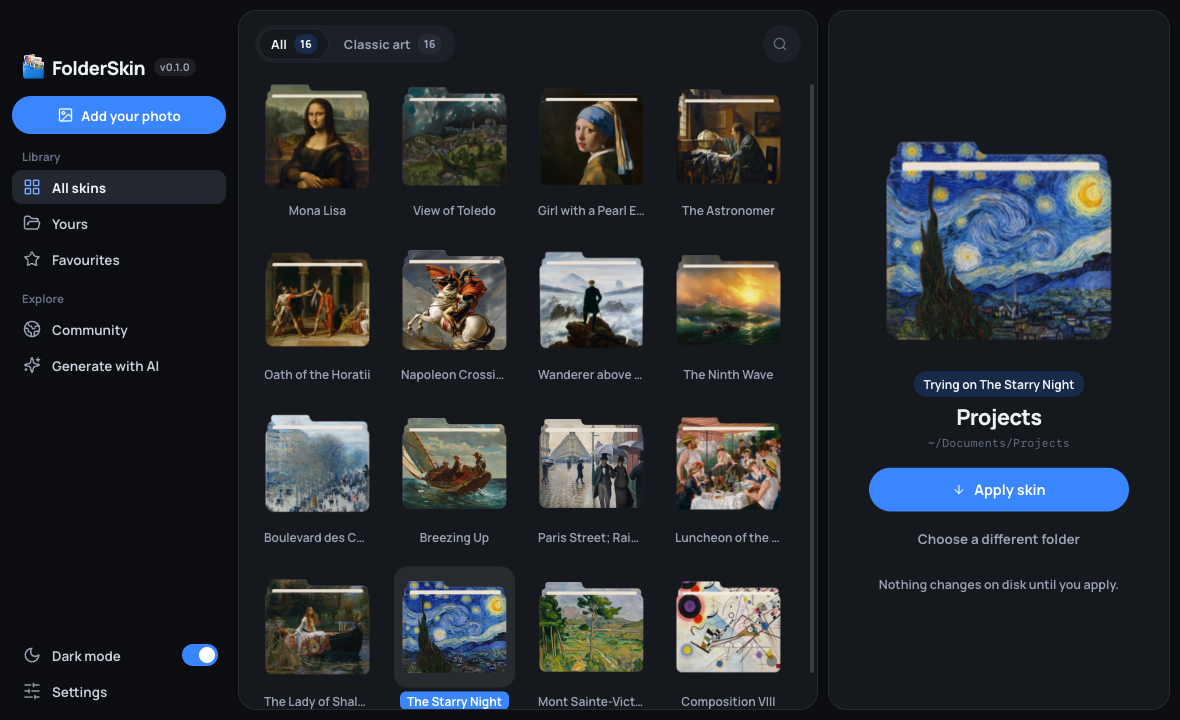
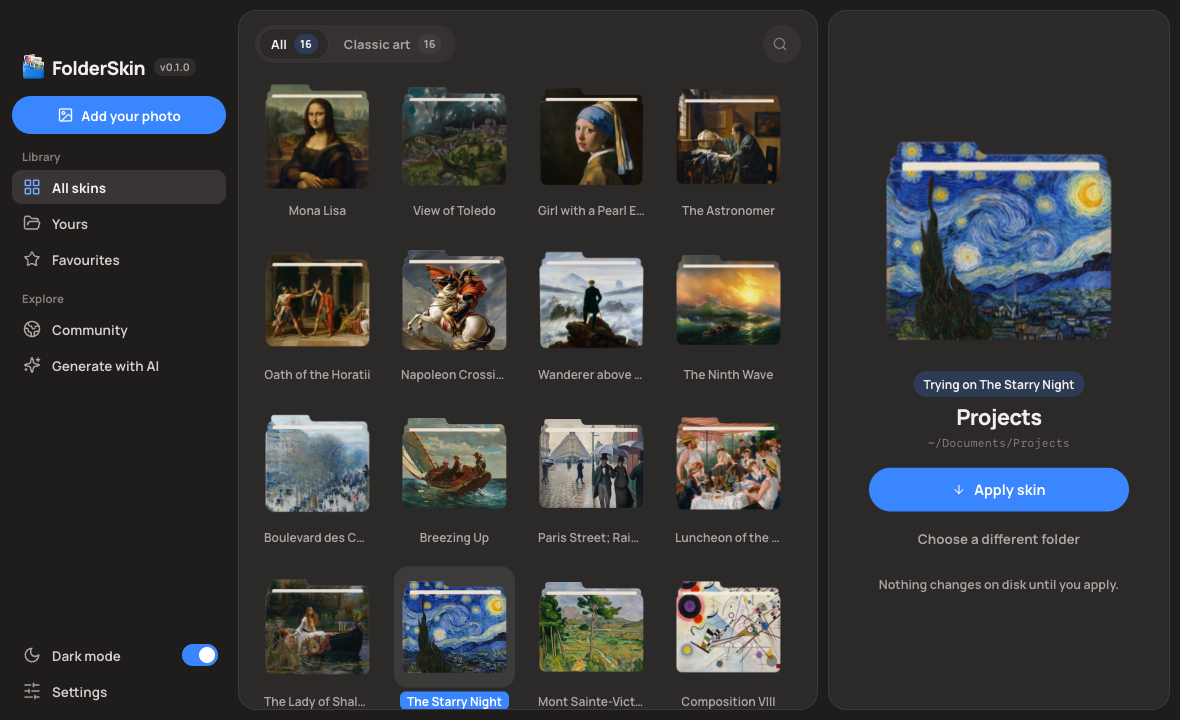
Make dark mode warm grey around #2c2929
The islands are #2c2929, the canvas a step darker and the wells a step lighter; the text, lines
and tints are warmed to match, with every text colour still at least AA on what it sits on.
The Settings button's sliders icon starts from its resting variant, so its first hover no longer
writes undefined into the SVG. The README screenshots show the new dark mode.

diff --git a/src/styles/tokens.css b/src/styles/tokens.css
@@ -80,40 +80,42 @@
   --t-slow: 420ms;
 }
 
+/* Dark is warm grey, built around the islands' #2c2929: the canvas a step darker, wells a step
+   lighter, and the text and tints warmed to match. */
 :root[data-theme="dark"] {
   color-scheme: dark;
 
-  --canvas: #0b0d10;
-  --island: #15181d;
+  --canvas: #1f1c1c;
+  --island: #2c2929;
   --island-line: rgba(255, 255, 255, 0.07);
-  --well: #1c2027;
-  --well-2: #252a33;
-  --line: #262b33;
-  --dash: #4a5361;
+  --well: #363232;
+  --well-2: #403b3b;
+  --line: #3d3838;
+  --dash: #5e5757;
 
-  --ink: #eef2f7;
-  --ink-2: #c9d1dc;
-  --muted: #98a2b3;
-  --hint: #667085;
-  --on-ink: #0b0d10;
+  --ink: #f2eeed;
+  --ink-2: #d4cecd;
+  --muted: #aba4a3;
+  --hint: #857d7c;
+  --on-ink: #1f1c1c;
 
   --accent: #3a86ff;
   --accent-hover: #2a74ee;
   --accent-ink: #6fa7ff;
-  --accent-soft: #172a48;
+  --accent-soft: #2d3b54;
   --accent-wash: rgba(58, 134, 255, 0.14);
   --accent-glow: rgba(58, 134, 255, 0.55);
   --on-accent: #ffffff;
 
   --ok: #34d399;
-  --ok-soft: #0f2e24;
+  --ok-soft: #2d483d;
   --ok-solid: #10a877;
   --ok-ink: #34d399;
   --danger: #ff6b6b;
-  --danger-soft: #3a1717;
+  --danger-soft: #3e2b2b;
 
   --nav-hover: rgba(255, 255, 255, 0.07);
-  --nav-active: #232830;
+  --nav-active: #3a3535;
   --tile-selected: rgba(255, 255, 255, 0.08);
 
   --shadow-pop: 0 0 0 1px var(--island-line), 0 24px 60px -14px rgba(0, 0, 0, 0.8);

diff --git a/src/components/icons/sliders-horizontal.tsx b/src/components/icons/sliders-horizontal.tsx
@@ -26,6 +26,9 @@ export function SlidersHorizontalIcon({ size = 18, className, playOnMount }: Ico
         <m.line
           key={`${line.x1},${line.y1},${line.x2},${line.y2}`}
           animate={controls}
+          // Without a starting variant motion reads each line's ends back as undefined on the
+          // first hover and writes that into the SVG before animating.
+          initial="normal"
           transition={TRANSITION}
           variants={{ normal, animate }}
           {...line}
